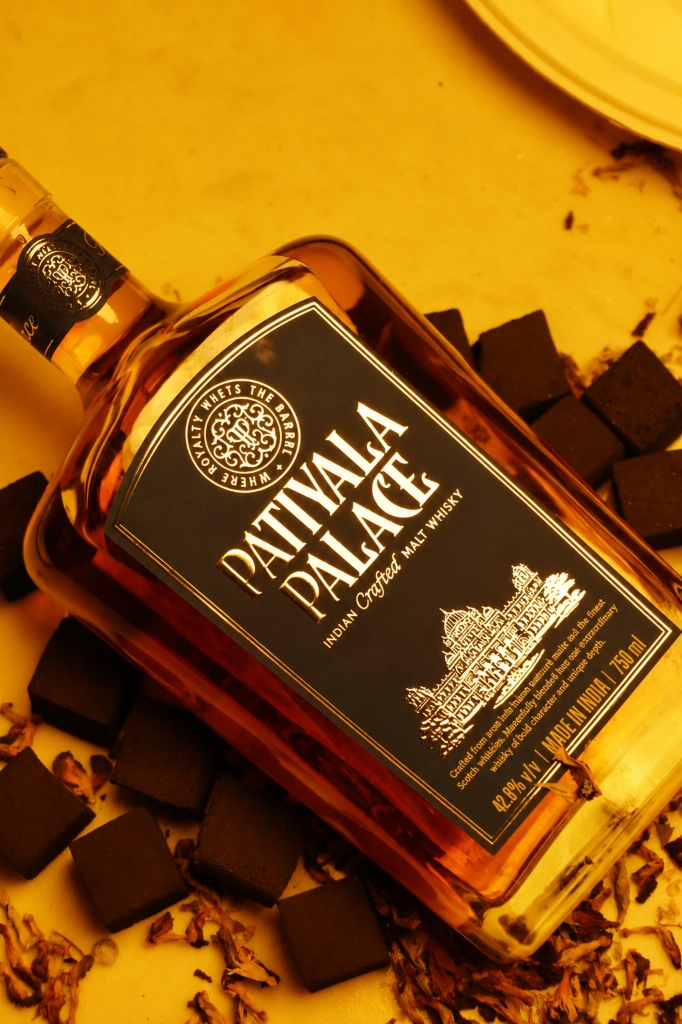
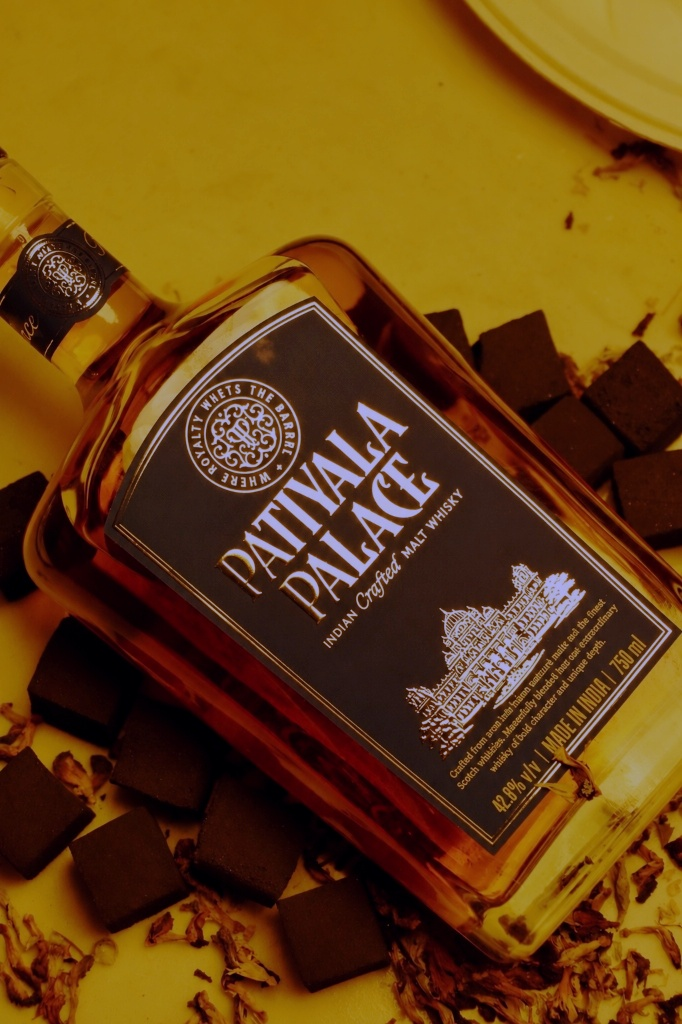
Tone down brightness and seamlessly blend craft macro bottle image

diff --git a/src/sections/MonkeyCraftSection.tsx b/src/sections/MonkeyCraftSection.tsx
@@ -43,17 +43,23 @@ export const MonkeyCraftSection: React.FC<Props> = ({ onExploreCraft }) => {
             whileInView={{ opacity: 1, scale: 1 }}
             viewport={{ once: true }}
             transition={{ duration: 0.8 }}
-            className="relative w-full max-w-[620px] aspect-[4/3] sm:aspect-[16/11] rounded-2xl sm:rounded-3xl overflow-hidden shadow-2xl group border border-[#CBD5E1]/40 bg-black/40"
+            className="relative w-full max-w-[620px] aspect-[4/3] sm:aspect-[16/11] rounded-2xl sm:rounded-3xl overflow-hidden shadow-2xl group border border-[#CBD5E1]/30 bg-[#030e28]"
           >
+            {/* Macro Bottle Photograph with Toned Warmth */}
             <img
               src="/assets/product/patiyala_macro_gold_label.jpg"
               alt="From the Roots of Patiala - Indian Crafted Malt Whisky"
-              className="w-full h-full object-cover object-center transition-transform duration-1000 ease-out group-hover:scale-105"
+              className="w-full h-full object-cover object-center filter brightness-[0.88] contrast-[1.05] transition-transform duration-1000 ease-out group-hover:scale-105"
             />
-            <div className="absolute inset-0 bg-gradient-to-t from-black/50 via-transparent to-transparent pointer-events-none" />
+
+            {/* Seamless Edge Blends & Radial Vignette */}
+            <div className="absolute inset-0 bg-[radial-gradient(ellipse_at_center,transparent_45%,rgba(3,14,40,0.85)_100%)] pointer-events-none" />
+            <div className="absolute inset-0 bg-gradient-to-t from-[#030e28]/95 via-transparent to-[#030e28]/50 pointer-events-none" />
+            <div className="absolute inset-0 bg-gradient-to-r from-[#030e28]/70 via-transparent to-[#030e28]/50 pointer-events-none" />
+            <div className="absolute inset-0 mix-blend-color bg-[#071f54]/20 pointer-events-none" />
 
             {/* Subtle Royal Accent Badge */}
-            <div className="absolute bottom-4 right-4 bg-black/70 backdrop-blur-md px-3.5 py-1.5 rounded-full border border-[#CBD5E1]/50 flex items-center gap-2 shadow-lg">
+            <div className="relative z-10 absolute bottom-4 right-4 bg-black/80 backdrop-blur-md px-3.5 py-1.5 rounded-full border border-[#CBD5E1]/40 flex items-center gap-2 shadow-xl">
               <span className="w-2 h-2 rounded-full bg-[#E2E8F0] animate-pulse" />
               <span className="font-mono text-[9px] font-bold text-white uppercase tracking-widest">
                 PATIYALA PALACE • INDIAN CRAFTED MALT WHISKY
